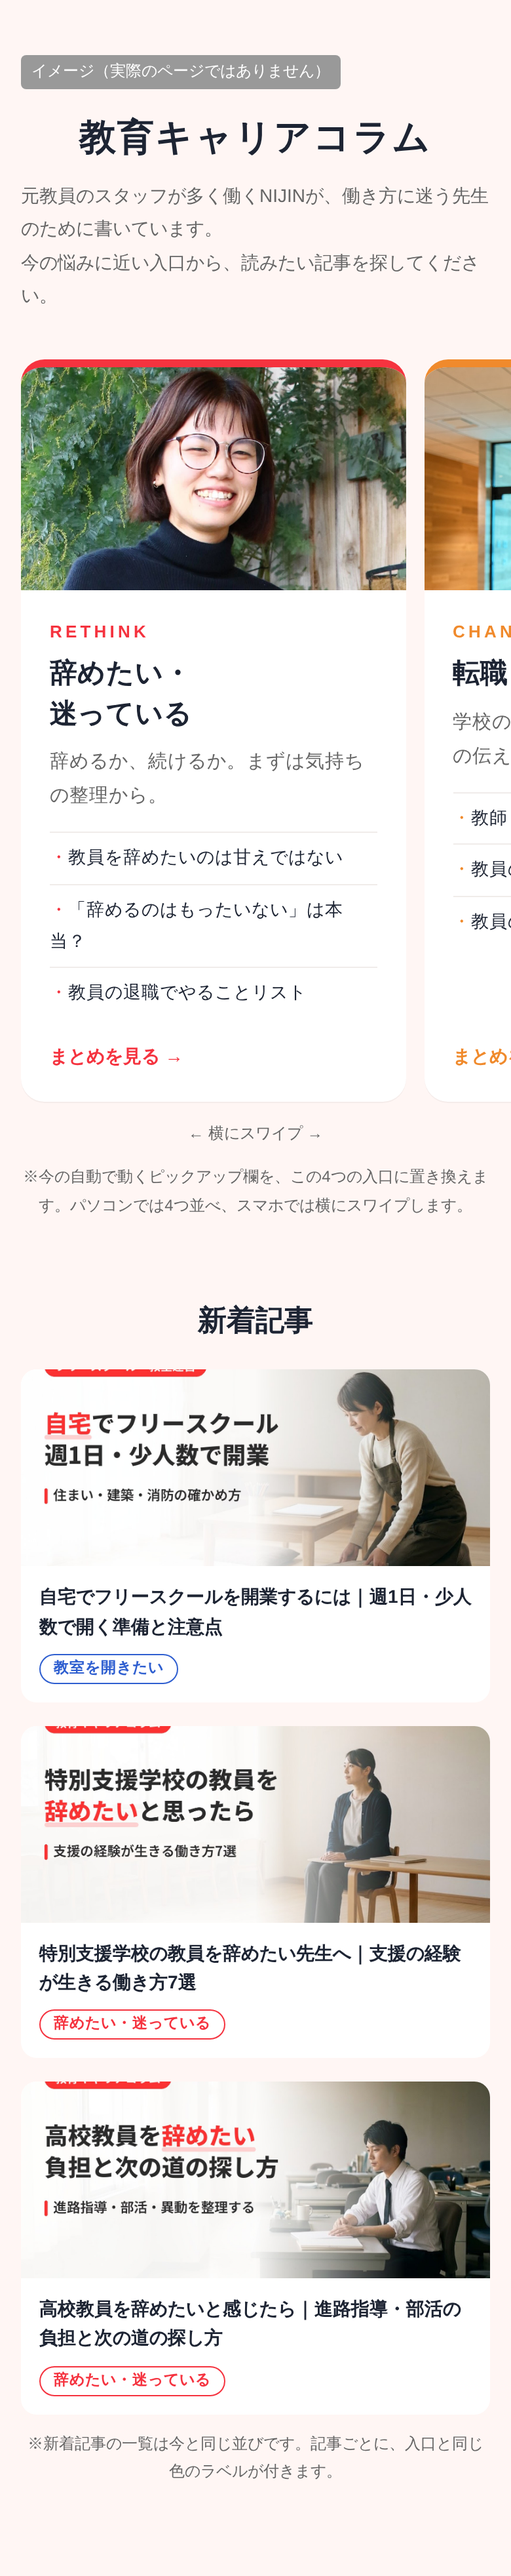
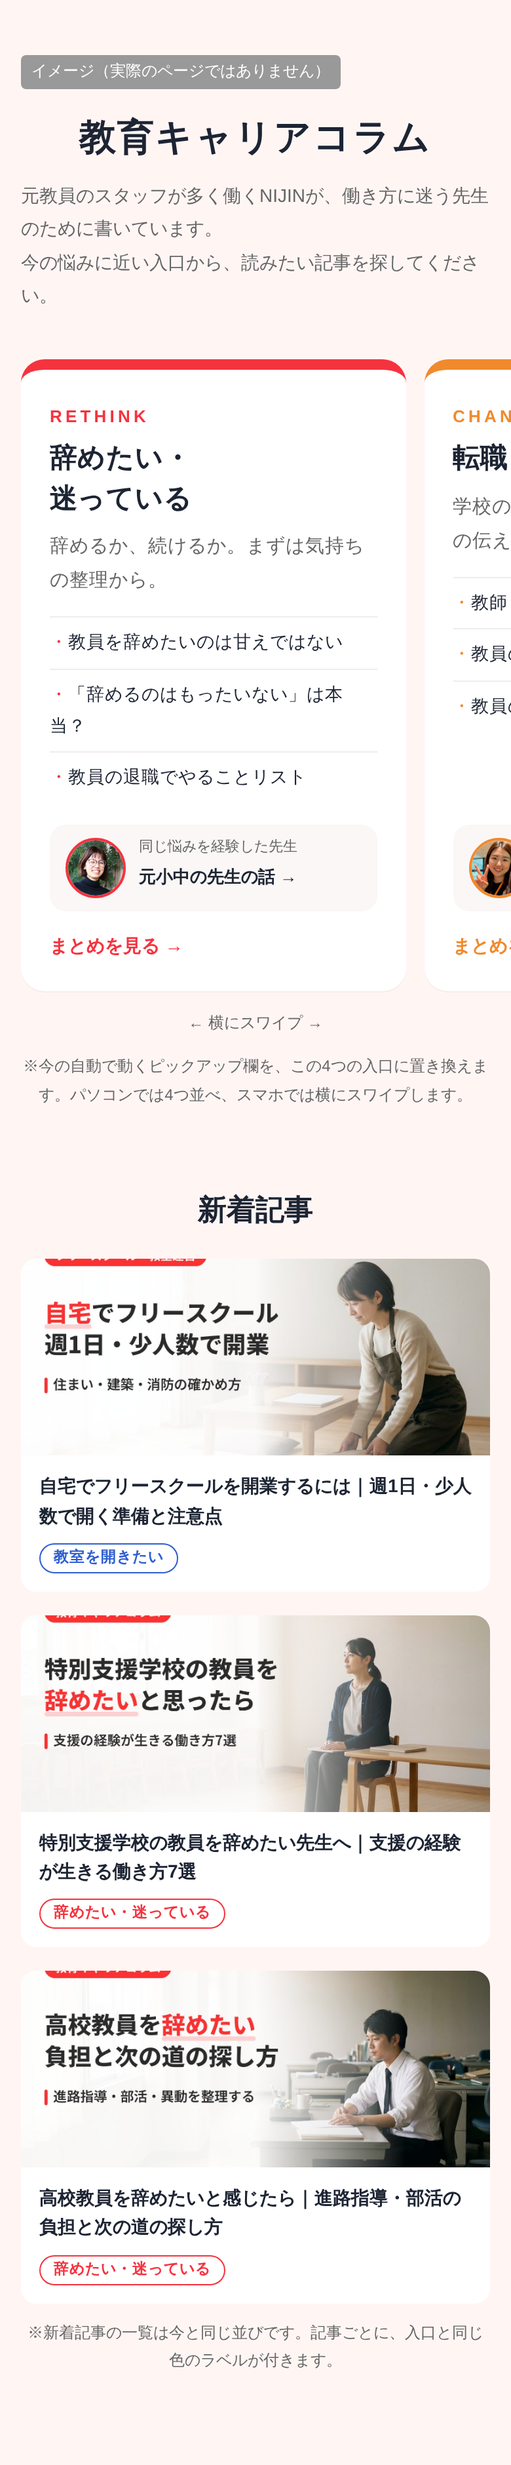
コラム一覧イメージ：悩みを主役にし、スタッフは小さな丸写真でインタビューへ案内
Claude-Session: https://claude.ai/code/session_01AXtM82vCWz4Faxv39SeV3B

diff --git a/site/recruit/career-tips-mock.html b/site/recruit/career-tips-mock.html
@@ -24,7 +24,7 @@ body{margin:0;background:var(--bg);color:var(--text);font-family:"Hiragino Sans"
 .door ul{list-style:none;margin:0 0 16px;padding:0;font-size:13.5px}
 .door li{padding:7px 0;border-top:1px solid #f0ecea}
 .door li::before{content:"・";color:var(--c)}
-.go{margin-top:auto;font-weight:bold;font-size:14px;color:var(--c)}
+.go{font-weight:bold;font-size:14px;color:var(--c)}
 .r{--c:var(--red)}.o{--c:var(--orange)}.g{--c:var(--green)}.b{--c:var(--blue)}
 h3{font-size:22px;font-weight:900;margin:56px 0 18px;text-align:center}
 .list{display:grid;grid-template-columns:repeat(3,1fr);gap:18px}
@@ -40,6 +40,12 @@ h3{font-size:22px;font-weight:900;margin:56px 0 18px;text-align:center}
 @media (max-width:640px){.doors{display:flex;overflow-x:auto;scroll-snap-type:x mandatory;gap:14px;margin:0 -16px;padding:0 16px 8px}.door{flex:0 0 82%;scroll-snap-align:center}}
 .swipe{display:none;text-align:center;font-size:12px;color:var(--sub);margin-top:6px}
 @media (max-width:640px){.swipe{display:block}}
+.door{border-top-width:8px}
+.voice{margin-top:auto !important;display:flex;align-items:center;gap:10px;background:#faf7f6;border-radius:12px;padding:10px 12px;margin:0 0 14px}
+.voice img{width:46px;height:46px;border-radius:50%;object-fit:cover;flex:none;border:2px solid var(--c)}
+.voice small{display:block;font-size:11px;color:var(--sub);line-height:1.4}
+.voice b{font-size:13px;line-height:1.5}
+.body{padding-top:24px}
 </style>
 </head>
 <body>
@@ -53,7 +59,7 @@ h3{font-size:22px;font-weight:900;margin:56px 0 18px;text-align:center}
 
   <div class="doors">
     <a class="door r" href="#">
-      <figure><img src="https://nijin.co.jp/recruit/wp-content/uploads/2026/03/IMG_3271-e1774166937279.jpg" alt=""></figure>
+      
       <div class="body">
         <span class="en">RETHINK</span>
         <h2>辞めたい・<br>迷っている</h2>
@@ -63,11 +69,12 @@ h3{font-size:22px;font-weight:900;margin:56px 0 18px;text-align:center}
           <li>「辞めるのはもったいない」は本当？</li>
           <li>教員の退職でやることリスト</li>
         </ul>
+        <div class="voice"><img src="https://nijin.co.jp/recruit/wp-content/uploads/2026/03/IMG_3271-e1774166937279.jpg" alt=""><div><small>同じ悩みを経験した先生</small><b>元小中の先生の話 →</b></div></div>
         <span class="go">まとめを見る →</span>
       </div>
     </a>
     <a class="door o" href="#">
-      <figure><img src="https://nijin.co.jp/recruit/wp-content/uploads/2026/07/aotari-featured-1200x675-1.jpg" alt=""></figure>
+      
       <div class="body">
         <span class="en">CHANGE</span>
         <h2>転職したい</h2>
@@ -77,11 +84,12 @@ h3{font-size:22px;font-weight:900;margin:56px 0 18px;text-align:center}
           <li>教員の転職で伝わる強み7選</li>
           <li>教員の転職はいつから始める？</li>
         </ul>
+        <div class="voice"><img src="https://nijin.co.jp/recruit/wp-content/uploads/2026/07/aotari-featured-1200x675-1.jpg" alt=""><div><small>同じ悩みを経験した先生</small><b>元中学校の先生の話 →</b></div></div>
         <span class="go">まとめを見る →</span>
       </div>
     </a>
     <a class="door g" href="#">
-      <figure><img src="https://nijin.co.jp/recruit/wp-content/uploads/2026/05/%E6%8E%A1%E7%94%A8HP-%E8%81%B7%E7%A8%AE-5.jpg" alt=""></figure>
+      
       <div class="body">
         <span class="en">ONLINE</span>
         <h2>在宅で教育に<br>関わりたい</h2>
@@ -91,11 +99,12 @@ h3{font-size:22px;font-weight:900;margin:56px 0 18px;text-align:center}
           <li>非常勤講師とは？常勤との違い</li>
           <li>非常勤講師の副業</li>
         </ul>
+        <div class="voice"><img src="https://nijin.co.jp/recruit/wp-content/uploads/2026/05/%E6%8E%A1%E7%94%A8HP-%E8%81%B7%E7%A8%AE-5.jpg" alt=""><div><small>同じ悩みを経験した先生</small><b>子育て中の先生の話 →</b></div></div>
         <span class="go">まとめを見る →</span>
       </div>
     </a>
     <a class="door b" href="#">
-      <figure><img src="https://nijin.co.jp/recruit/wp-content/uploads/2026/08/%E3%82%84%E3%81%93%E3%81%9F%E3%82%93%E4%BF%9D%E8%AD%B7%E8%80%85%E3%81%A8%E8%AB%87%E7%AC%91%E9%A2%A8.jpg" alt=""></figure>
+      
       <div class="body">
         <span class="en">OPEN</span>
         <h2>教室を開きたい</h2>
@@ -105,6 +114,7 @@ h3{font-size:22px;font-weight:900;margin:56px 0 18px;text-align:center}
           <li>フランチャイズ・開校支援を比べる前に</li>
           <li>フリースクールの法人化は必要？</li>
         </ul>
+        <div class="voice"><img src="https://nijin.co.jp/recruit/wp-content/uploads/2026/08/%E3%82%84%E3%81%93%E3%81%9F%E3%82%93%E4%BF%9D%E8%AD%B7%E8%80%85%E3%81%A8%E8%AB%87%E7%AC%91%E9%A2%A8.jpg" alt=""><div><small>同じ悩みを経験した先生</small><b>元特別支援の先生の話 →</b></div></div>
         <span class="go">まとめを見る →</span>
       </div>
     </a>
